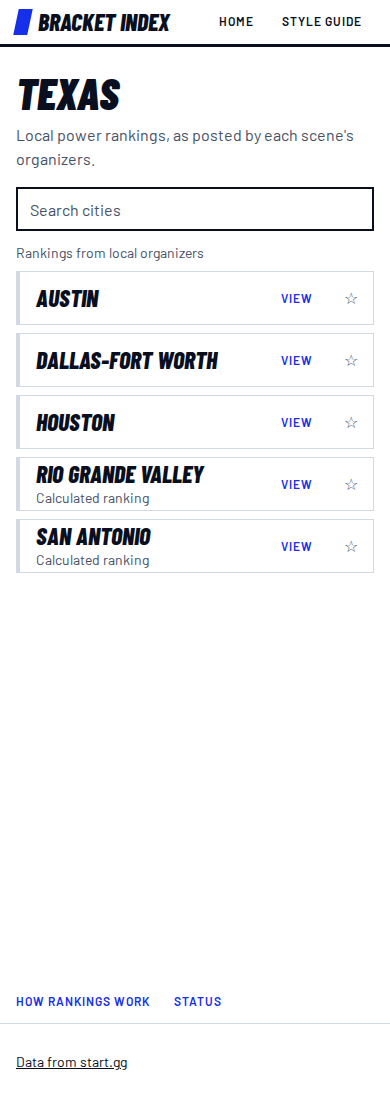
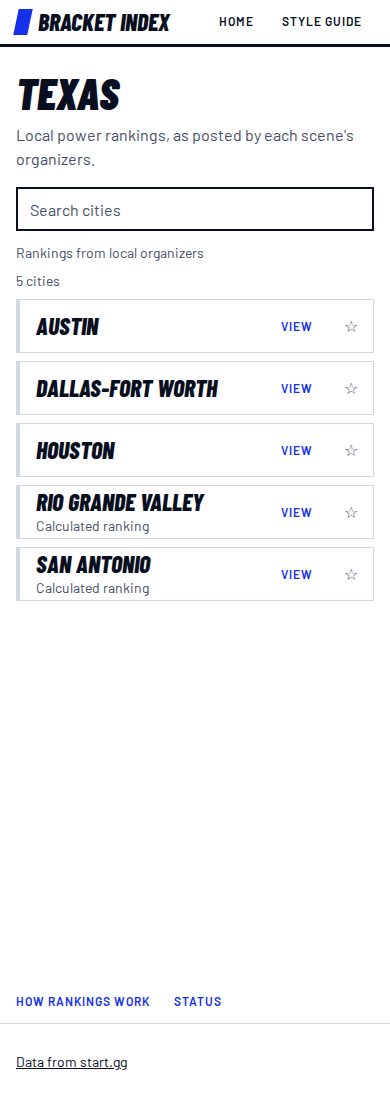
feat(texas): credit CC BY-SA wiki sources, strict scene schema, a11y fixes
- Optional `credit` on scenes; required when sourceUrl is liquipedia.net or ssbwiki.com
- Credit line with Source and License links on expanded cards
- Strict schemas, duplicate city check, always-mounted live region
- Card button label now counts players (HM included); HM has an accessible name
- README and STATUS updated; screenshots regenerated

Claude-Session: https://claude.ai/code/session_01EmiPNYLaxRfYJT2qzBUjng

diff --git a/packages/core/src/scenes.ts b/packages/core/src/scenes.ts
@@ -9,7 +9,7 @@ export const sceneIdSchema = z
 /** A numbered rank, or "HM" (honorable mention, listed after the numbered ranks). */
 export const HONORABLE_MENTION = "HM";
 
-export const scenePlayerSchema = z.object({
+export const scenePlayerSchema = z.strictObject({
   rank: z.union([z.number().int().positive(), z.literal(HONORABLE_MENTION)]),
   /** Kept exactly as published (sponsor tags, alternate tags); only checked to be non-blank. */
   name: z.string().refine((value) => value.trim().length > 0, "player name must not be empty"),
@@ -18,8 +18,30 @@ export const scenePlayerSchema = z.object({
 /** "official" is a panel-voted power ranking; "calculated" is formula-based (Braacket). */
 export const sceneTypeSchema = z.enum(["official", "calculated"]);
 
+/** Wiki hosts whose content is CC BY-SA: an entry sourced from one must carry `credit`. */
+export const CC_BY_SA_WIKI_HOSTS = ["liquipedia.net", "ssbwiki.com"] as const;
+
+function isCcBySaWikiUrl(url: string): boolean {
+  let host: string;
+  try {
+    host = new URL(url).hostname.toLowerCase().replace(/^www\./, "");
+  } catch {
+    return false; // not a URL at all; the sourceUrl check reports that
+  }
+  return CC_BY_SA_WIKI_HOSTS.some((wiki) => host === wiki || host.endsWith(`.${wiki}`));
+}
+
+/** Attribution for entries copied from a CC BY-SA wiki. */
+export const sceneCreditSchema = z.strictObject({
+  site: z.string().trim().min(1),
+  license: z.literal("CC BY-SA"),
+  licenseUrl: z
+    .url()
+    .refine((value) => value.startsWith("https://"), "licenseUrl must start with https://"),
+});
+
 export const sceneSchema = z
-  .object({
+  .strictObject({
     id: sceneIdSchema,
     city: z.string().trim().min(1),
     rankingName: z.string().trim().min(1),
@@ -32,9 +54,18 @@ export const sceneSchema = z
     type: sceneTypeSchema,
     /** Optional: when this city's list was published or copied. Never guessed. */
     updated: isoDate.optional(),
+    /** Required when sourceUrl is a CC BY-SA wiki (Liquipedia, SmashWiki). */
+    credit: sceneCreditSchema.optional(),
     players: z.array(scenePlayerSchema),
   })
   .superRefine((scene, ctx) => {
+    if (scene.sourceUrl && isCcBySaWikiUrl(scene.sourceUrl) && !scene.credit) {
+      ctx.addIssue({
+        code: "custom",
+        path: ["credit"],
+        message: "entries sourced from Liquipedia or SmashWiki (CC BY-SA) must include credit",
+      });
+    }
     let expected = 1;
     let seenHonorableMention = false;
     scene.players.forEach((player, index) => {
@@ -60,14 +91,24 @@ export const sceneSchema = z
   });
 
 export const scenesFileSchema = z
-  .object({
+  .strictObject({
     version: z.literal(1),
     updated: isoDate,
     scenes: z.array(sceneSchema),
   })
   .superRefine((file, ctx) => {
     const seen = new Set<string>();
+    const seenCities = new Set<string>();
     file.scenes.forEach((scene, index) => {
+      const cityKey = scene.city.trim().toLowerCase();
+      if (seenCities.has(cityKey)) {
+        ctx.addIssue({
+          code: "custom",
+          path: ["scenes", index, "city"],
+          message: `duplicate city "${scene.city}"`,
+        });
+      }
+      seenCities.add(cityKey);
       if (seen.has(scene.id)) {
         ctx.addIssue({
           code: "custom",
@@ -80,5 +121,6 @@ export const scenesFileSchema = z
   });
 
 export type ScenePlayer = z.infer<typeof scenePlayerSchema>;
+export type SceneCredit = z.infer<typeof sceneCreditSchema>;
 export type Scene = z.infer<typeof sceneSchema>;
 export type ScenesFile = z.infer<typeof scenesFileSchema>;

diff --git a/packages/core/src/scenes.test.ts b/packages/core/src/scenes.test.ts
@@ -31,7 +31,7 @@ describe("scenesFileSchema", () => {
     ]);
   });
   it("accepts a null source link and varying player counts", () => {
-    const ok = file([scene({ sourceUrl: null }), scene({ id: "b", players: [] })]);
+    const ok = file([scene({ sourceUrl: null }), scene({ id: "b", city: "Other", players: [] })]);
     expect(scenesFileSchema.safeParse(ok).success).toBe(true);
   });
   it("rejects ranks that skip, repeat or start wrong", () => {
@@ -88,5 +88,43 @@ describe("scenesFileSchema", () => {
   it("rejects bad dates and versions", () => {
     expect(scenesFileSchema.safeParse(file([scene({ updated: "9/20/2026" })])).success).toBe(false);
     expect(scenesFileSchema.safeParse({ ...file([]), version: 2 }).success).toBe(false);
+  });
+
+  it("rejects unknown keys such as a misspelled optional field", () => {
+    expect(scenesFileSchema.safeParse(file([scene({ upated: "2026-09-20" })])).success).toBe(false);
+    const players = [{ rank: 1, name: "A", nmae: "x" }];
+    expect(scenesFileSchema.safeParse(file([scene({ players })])).success).toBe(false);
+    expect(scenesFileSchema.safeParse({ ...file([scene()]), extra: 1 }).success).toBe(false);
+  });
+  it("rejects duplicate city names, ignoring case", () => {
+    const dupes = file([scene(), scene({ id: "other", city: "sampletown" })]);
+    expect(scenesFileSchema.safeParse(dupes).success).toBe(false);
+  });
+  describe("CC BY-SA credit", () => {
+    const credit = {
+      site: "Liquipedia",
+      license: "CC BY-SA",
+      licenseUrl: "https://liquipedia.net/smash/Texas_Power_Rankings",
+    };
+    it("requires credit for liquipedia.net and ssbwiki.com sources", () => {
+      for (const sourceUrl of [
+        "https://liquipedia.net/smash/Texas_Power_Rankings/Austin",
+        "https://www.ssbwiki.com/Texas_Power_Rankings/Houston_Power_Rankings",
+      ]) {
+        expect(scenesFileSchema.safeParse(file([scene({ sourceUrl })])).success).toBe(false);
+        expect(scenesFileSchema.safeParse(file([scene({ sourceUrl, credit })])).success).toBe(true);
+      }
+    });
+    it("does not require credit for other sources, and checks the credit shape", () => {
+      expect(scenesFileSchema.safeParse(file([scene({ credit })])).success).toBe(true);
+      const bad = { ...credit, licenseUrl: "http://example.com" };
+      expect(scenesFileSchema.safeParse(file([scene({ credit: bad })])).success).toBe(false);
+      const wrong = { ...credit, license: "MIT" };
+      expect(scenesFileSchema.safeParse(file([scene({ credit: wrong })])).success).toBe(false);
+    });
+    it("has credit on the three wiki-sourced real scenes only", () => {
+      const credited = texasScenes.scenes.filter((s) => s.credit).map((s) => s.city);
+      expect(credited).toEqual(["Austin", "Dallas-Fort Worth", "Houston"]);
+    });
   });
 });

diff --git a/apps/app/src/components/SceneCard.tsx b/apps/app/src/components/SceneCard.tsx
@@ -27,7 +27,7 @@ export function SceneCard({
           role="button"
           aria-expanded={expanded}
           aria-controls={panelId}
-          aria-label={`${scene.city}, ${scene.players.length} ranked players`}
+          aria-label={`${scene.city}${scene.type === "calculated" ? ", calculated ranking" : ""}, ${scene.players.length} players`}
           onPress={onToggleExpanded}
           {...header.handlers}
           style={[styles.headerButton, header.style]}
@@ -70,7 +70,27 @@ export function SceneCard({
           <BodyText variant="bodySm" muted>
             {scene.updated ? `${scene.season} · Updated ${scene.updated}` : scene.season}
           </BodyText>
-          {scene.sourceUrl ? (
+          {scene.credit ? (
+            <View style={styles.creditRow}>
+              <BodyText variant="bodySm" muted>
+                From {scene.credit.site} · {scene.credit.license}
+              </BodyText>
+              {scene.sourceUrl ? (
+                <ActionLink
+                  label={`Source for ${scene.city} on ${scene.credit.site}`}
+                  text="Source"
+                  href={scene.sourceUrl}
+                  external
+                />
+              ) : null}
+              <ActionLink
+                label={`${scene.credit.license} license for ${scene.city}`}
+                text="License"
+                href={scene.credit.licenseUrl}
+                external
+              />
+            </View>
+          ) : scene.sourceUrl ? (
             <ActionLink
               label={`Source for ${scene.city}`}
               text="Source"
@@ -81,7 +101,12 @@ export function SceneCard({
           <View role="list" aria-label={`${scene.city} ranking`} style={styles.players}>
             {scene.players.map((player, index) => (
               <View key={`${player.rank}-${index}`} role="listitem" style={styles.player}>
-                <BodyText variant="stat" color={colors.accent} style={styles.rank}>
+                <BodyText
+                  variant="stat"
+                  color={colors.accent}
+                  style={styles.rank}
+                  aria-label={player.rank === "HM" ? "Honorable mention" : undefined}
+                >
                   {player.rank}
                 </BodyText>
                 <BodyText>{player.name}</BodyText>
@@ -127,6 +152,12 @@ const styles = StyleSheet.create({
     borderTopWidth: 1,
     borderTopColor: colors.line,
     paddingTop: spacing.md,
+  },
+  creditRow: {
+    flexDirection: "row",
+    flexWrap: "wrap",
+    alignItems: "center",
+    columnGap: spacing.md,
   },
   players: { marginTop: spacing.sm },
   player: {

diff --git a/e2e/tests/texas.spec.ts b/e2e/tests/texas.spec.ts
@@ -5,7 +5,7 @@ const ORDER = ["Austin", "Dallas-Fort Worth", "Houston", "Rio Grande Valley", "S
 
 async function cityOrder(page: Page) {
   const list = page.getByRole("list", { name: "Texas cities" });
-  const names = await list.getByRole("button", { name: /ranked players$/ }).allTextContents();
+  const names = await list.getByRole("button", { name: / players$/ }).allTextContents();
   return names.map((text) => text.replace(/(Calculated ranking)?(View|Hide)$/, "").trim());
 }
 
@@ -28,6 +28,12 @@ test("search filters by city and shows an empty state", async ({ page }) => {
   expect(await cityOrder(page)).toEqual(["San Antonio"]);
   await box.fill("zzz");
   await expect(page.getByText('No scenes match "zzz"')).toBeVisible();
+  const status = page.getByRole("status");
+  await expect(status).toHaveText('No scenes match "zzz"');
+  await box.fill("");
+  await expect(status).toHaveText("5 cities");
+  await box.fill("san");
+  await expect(status).toHaveText("1 city");
 });
 
 test("pinning moves a city to the top and survives a reload", async ({ page }) => {
@@ -59,7 +65,7 @@ test("works when storage is unavailable", async ({ page }) => {
 });
 
 test("expanding Dallas-Fort Worth shows its ranking, HM entries and source", async ({ page }) => {
-  const header = page.getByRole("button", { name: /^Dallas-Fort Worth, 11 ranked players$/ });
+  const header = page.getByRole("button", { name: /^Dallas-Fort Worth, 11 players$/ });
   await expect(header).toHaveAttribute("aria-expanded", "false");
   await header.click();
   await expect(header).toHaveAttribute("aria-expanded", "true");
@@ -70,6 +76,11 @@ test("expanding Dallas-Fort Worth shows its ranking, HM entries and source", asy
   await expect(items.first()).toContainText("Atomic");
   await expect(items.last()).toContainText("HM");
   await expect(items.last()).toContainText("Grapezard X");
+  await expect(page.getByText("From Liquipedia · CC BY-SA")).toBeVisible();
+  await expect(page.getByLabel("Honorable mention")).toHaveCount(1);
+  await expect(
+    page.getByRole("link", { name: /CC BY-SA license for Dallas-Fort Worth/ }),
+  ).toHaveAttribute("href", /^https:\/\//);
   const source = page.getByRole("link", { name: /Source for Dallas-Fort Worth/ });
   await expect(source).toHaveAttribute("target", "_blank");
   await expect(source).toHaveAttribute("href", /^https:\/\//);

diff --git a/apps/app/src/app/texas.tsx b/apps/app/src/app/texas.tsx
@@ -46,6 +46,10 @@ export default function TexasPage() {
 
   const visible = useMemo(() => arrangeScenes(scenes, pins, query), [pins, query]);
   const trimmed = query.trim();
+  const liveMessage =
+    visible.length === 0
+      ? `No scenes match "${trimmed}"`
+      : `${visible.length} ${visible.length === 1 ? "city" : "cities"}`;
 
   return (
     <Page>
@@ -66,11 +70,12 @@ export default function TexasPage() {
         <BodyText variant="bodySm" muted style={styles.credit}>
           Rankings from local organizers
         </BodyText>
-        {visible.length === 0 ? (
-          <View role="status" style={styles.empty}>
-            <BodyText>No scenes match &quot;{trimmed}&quot;</BodyText>
-          </View>
-        ) : (
+        <View role="status" aria-live="polite" testID="scene-status" style={styles.live}>
+          <BodyText variant="bodySm" muted>
+            {liveMessage}
+          </BodyText>
+        </View>
+        {visible.length === 0 ? null : (
           <View role="list" aria-label="Texas cities" style={styles.list}>
             {visible.map((scene) => (
               <SceneCard
@@ -99,5 +104,5 @@ const styles = StyleSheet.create({
   search: { marginTop: spacing.lg },
   credit: { marginTop: spacing.md, marginBottom: spacing.sm },
   list: { gap: spacing.sm },
-  empty: { paddingVertical: spacing.xl },
+  live: { minHeight: 24, paddingBottom: spacing.sm },
 });

diff --git a/data/scenes/README.md b/data/scenes/README.md
@@ -4,6 +4,25 @@ The **Texas tab** of the site lists every Texas city that has a published local 
 
 To add or change a city: send Clay or Genghis the list (city, ranking name, season, link to the original post, and the players in order). Genghis or Claude then edits `texas.json` in a pull request. The site updates when the pull request merges.
 
+## Licenses and credit (CC BY-SA wikis)
+
+- Entries that have a `credit` block come from wikis licensed under **CC BY-SA**: Austin and Dallas-Fort Worth from Liquipedia, Houston from SmashWiki. The Braacket entries (Rio Grande Valley, San Antonio) are not affected.
+- Our copy of those entries is shared under the **same license** (share-alike). Anyone may reuse them, as long as they credit the source wiki.
+- This applies only to the list data in this file. The app's code is unaffected and keeps its own license.
+- **Any new entry sourced from a wiki must include `credit`.** The automatic check fails if `sourceUrl` points at liquipedia.net or ssbwiki.com and `credit` is missing.
+- Each credited city shows "From <site> · CC BY-SA" on the page, with links to the source and the license.
+- ⚠ The exact CC BY-SA version (for example 3.0 or 4.0) should be confirmed from each site's footer. Until then, `licenseUrl` points at the source page, which states its own license, and we do not claim a version.
+
+Example `credit` block:
+
+```json
+"credit": {
+  "site": "Liquipedia",
+  "license": "CC BY-SA",
+  "licenseUrl": "https://liquipedia.net/smash/Texas_Power_Rankings/Dallas-Fort_Worth"
+}
+```
+
 ## The file
 
 ```json
@@ -38,6 +57,7 @@ To add or change a city: send Clay or Genghis the list (city, ranking name, seas
   - `rankingName`: what the organizers call the ranking.
   - `season`: the period it covers, such as `2026 Q2`.
   - `sourceUrl`: link to the original post. Must start with `https://`. Use `null` if there is no link.
+  - `credit` (required for wiki sources, see above): `site`, `license` (always `"CC BY-SA"`) and `licenseUrl` (https).
   - `type`: `"official"` for a panel-voted power ranking, or `"calculated"` for a formula-based one (for example a Braacket ranking). Calculated cities get a "Calculated ranking" label on the site.
   - `updated` (optional): the date this city's list was published or copied, as `YYYY-MM-DD`. Leave it out if you do not know it. Never guess.
   - `players`: the list, best first. Each has a `rank` and a `name`.
@@ -52,7 +72,9 @@ To add or change a city: send Clay or Genghis the list (city, ranking name, seas
 ## Rules (a mistake fails the automatic check, so it cannot go live)
 
 - Every player needs a name. Cities can have any number of players.
-- Every `id` must be different.
+- Every `id` must be different, and so must every `city`.
+- Misspelled or unknown keys (for example `upated`) are rejected.
+- Entries sourced from liquipedia.net or ssbwiki.com must have `credit`.
 - Links must be `https://`.
 - Dates must look like `2026-09-20`.
 - `type` must be `"official"` or `"calculated"`.

diff --git a/STATUS.md b/STATUS.md
@@ -625,6 +625,7 @@ Once 1 and 2 are done, the jobs start on their own schedule. Each run first crea
 - Rio Grande Valley and San Antonio are formula-based (Braacket) rankings rather than panel-voted ones, so they carry a small "Calculated ranking" label.
 - The whole list comes from one hand-edited file, `data/scenes/texas.json`. A check in the tests rejects bad edits (ranks out of order, repeated city ids, links that are not https, HM entries before numbered ones), so a typo cannot go live. `data/scenes/README.md` explains the file in plain English.
 - Navigation to this page is added in a separate PR (the two-tab shell).
+- Clay accepted CC BY-SA share-alike for wiki-sourced scene rankings (Oct 4); they are shown with credit. Austin and Dallas-Fort Worth come from Liquipedia and Houston from SmashWiki, so each of those three shows "From <site> · CC BY-SA" with Source and License links when opened. The data check now requires a `credit` on any entry whose link points at liquipedia.net or ssbwiki.com, rejects misspelled keys, and rejects repeated city names. The exact CC BY-SA version still needs confirming from each site's footer, so the License links point at the source page for now.
 
 **How a city ranking gets added:** send the list (city, ranking name, season, link to the original post, players in order) to Genghis or Claude. They update `data/scenes/texas.json` in a pull request, and the site updates when it merges.
 
